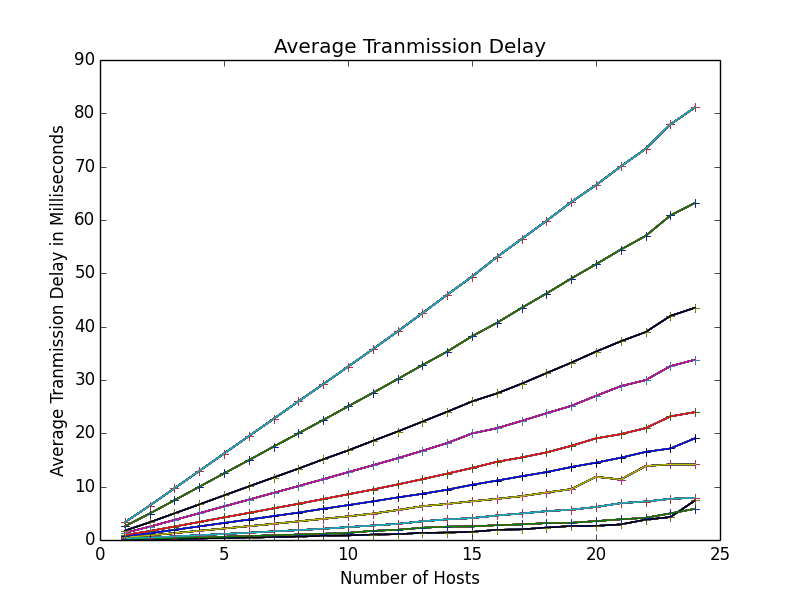
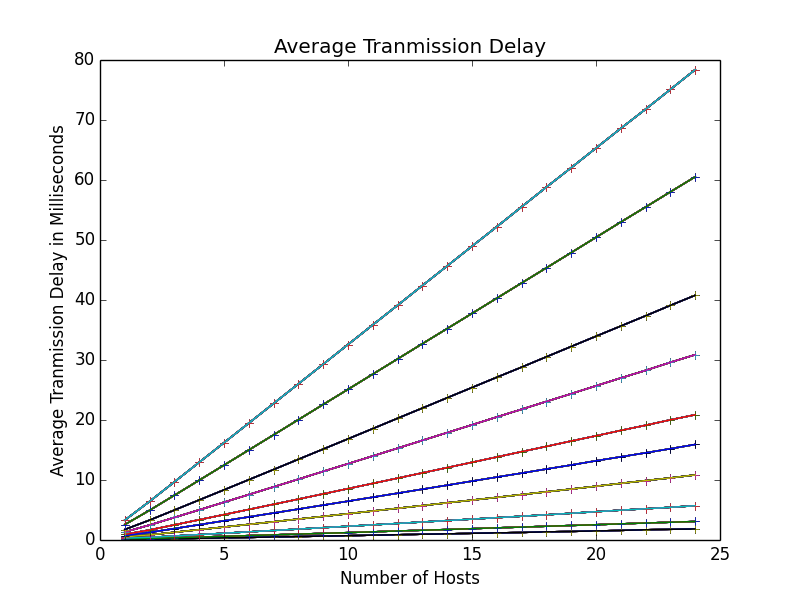
preparing for idle sense

diff --git a/Node.java b/Node.java
@@ -18,6 +18,14 @@ public class Node {
 
     private int timesBackedOff = 0;
 
+    
+    // For clocking number of idle slots seen
+    private double startIdleTime = 0.0;
+    private int ntrans = 0;
+    private double sumIdleSlots = 0.0;
+    private int contentionWindow = 0;
+    private double nIdleAvg = 0.0;
+
     public Statistics stats = new Statistics();
 
     Random rand;
@@ -49,6 +57,31 @@ public class Node {
 
         record(e, reaction);
 
+
+        // check causes line to go from idle to busy
+        if (e.eventType == EventType.PREAMBLE_START && numberOpenTransmissions == 1) {
+            double idleTime = e.time - startIdleTime;
+            double idleSlots = idleTime / Constants.SLOT_TIME;
+            sumIdleSlots += idleSlots;            
+        } 
+
+        // some transmission ends
+        else if (e.eventType == EventType.JAMMING_END || e.eventType == EventType.PACKET_END) {
+            ntrans++;
+
+            // line goes idle because of this event
+            if (isLineIdle()) {
+                startIdleTime = e.time;
+            }
+
+            if (ntrans >= Constants.MAX_TRANS) {
+                nIdleAvg = sumIdleSlots / ntrans;
+                ntrans = 0;
+                sumIdleSlots = 0;
+                
+            }
+        }
+
         return reaction;
     }
 
@@ -56,7 +89,7 @@ public class Node {
         history.add(new EventAction(e, reaction));
         if (history.size() > HISTORY_SIZE) {
             history.removeFirst();
-        }        
+        }
     }
 
     private boolean own(Event e) {
@@ -158,9 +191,13 @@ public class Node {
     }
 
     private int nextBackoffSlots() {
-        int maxWait = timesBackedOff < 10 ? (int) Math.pow(2, 1+timesBackedOff) : Constants.MAX_BACKOFF_SLOTS;
-        int slots = rand.nextInt(maxWait);
-        return slots;
+        //int maxWait = timesBackedOff < 10 ? (int) Math.pow(2, 1+timesBackedOff) : Constants.MAX_BACKOFF_SLOTS;
+        //int slots = rand.nextInt(maxWait);
+        if (timesBackedOff < 10) {
+            contentionWindow = (int) Math.pow(2, 1 + timesBackedOff);
+        }
+
+        return rand.nextInt(contentionWindow); // slots;
     }
 
     private Action sendIfIdle() {

diff --git a/Statistics.java b/Statistics.java
@@ -11,6 +11,20 @@ public class Statistics {
 	public int slotsWaited = 0;
 	public int packetsAborted = 0;
 
+	// Idle sense
+	/*
+	public int idleSlots = 0;
+	public int numTransmissions = 0;
+
+	public void addIdleSlots(int n) {
+		idleSlots += n;
+	}
+
+	public void incrTransmissions() {
+		numTransmissions++;
+	}
+	*/
+
 	public void addSuccessfulPacket(int sentBits) {
 		successfulPackets++;
 		bitsSent += sentBits;

diff --git a/Network.java b/Network.java
@@ -252,6 +252,7 @@ public class Network {
                 Map<Node, Integer> topology = Network.generateTopology(nodes);
 
                 Network net = new Network(topology);
+				Constants.MAX_TRANS = Math.max(nodes, 5);
 
                 net.simulate(iterations);
 

diff --git a/Constants.java b/Constants.java
@@ -19,4 +19,7 @@ public class Constants {
 
 	public static final int MIN_PACKET_SIZE = 512;
 	public static       int MAX_PACKET_SIZE = 2048;
+
+	// Idle sense
+	public static int MAX_TRANS = 5;
 }
